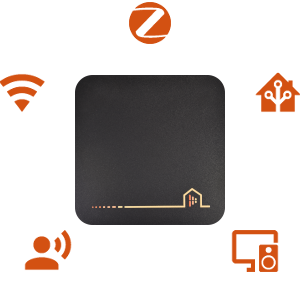
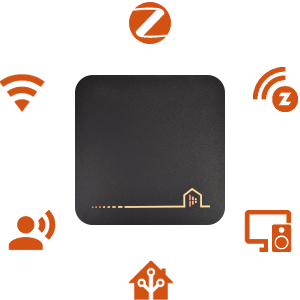
features

diff --git a/src/pages/index.js b/src/pages/index.js
@@ -3,7 +3,6 @@ import classnames from 'classnames';
 import Layout from '@theme/Layout';
 import Link from '@docusaurus/Link';
 import useDocusaurusContext from '@docusaurus/useDocusaurusContext';
-import useBaseUrl from '@docusaurus/useBaseUrl';
 import styles from './styles.module.css';
 import Image from '@theme/IdealImage';
 import Translate, {translate} from '@docusaurus/Translate';
@@ -11,6 +10,7 @@ import googlePlayLogo from '../../static/img/main/google-play-badge.png';
 import domDemoLogo from '../../static/img/main/Anzela-Demo.png';
 import Typewriter from 'typewriter-effect';
 import { Carousel } from '@trendyol-js/react-carousel';
+import ExecutionEnvironment from '@docusaurus/ExecutionEnvironment';
 
 
 export const Highlight = ({children, color, textColor}) => ( <span style={{
@@ -23,24 +23,11 @@ export const Highlight = ({children, color, textColor}) => ( <span style={{
   margin: '1em',
 }} className="AisHighlightFuture"> {children} </span> );
 
-function Feature({imageUrl, imageBttomUrl, title, description, addClass, addImgClass}) {
-  const imgUrl = useBaseUrl(imageUrl);
-  const imgBottomUrl = useBaseUrl(imageBttomUrl);
-  return (
-    <div className={classnames(addClass, styles.feature)}>
-      {imgUrl && (
-        <div className="text--center">
-          <img alt="AIS dom feature" className={classnames(addImgClass, styles.aisComiksImg)} src={imgUrl} alt={title} />
-        </div>
-      )}
-      <div className="aisFeatureTitle">{title}</div>
-      <div>{description}</div>
-    </div>
-  );
-}
 
 function getShowFeaturesNum() {
-  console.log(window.innerWidth);
+  if (!ExecutionEnvironment.canUseDOM) {
+    return 1;
+  }
   const w = window.innerWidth;
   if (w > 1800) {
     return 3.5;
@@ -83,7 +70,7 @@ function Home() {
                     AI-Speaker
                 </Translate>
               </h1>
-              <p className="hero__subtitle">
+              <div className="hero__subtitle">
                 <Translate
                     id="homepage.hero_subtitle"
                     description="The homepage hero subtitle">
@@ -92,13 +79,32 @@ function Home() {
                 <Typewriter
                   options={{
                     strings: [
-                      'Lokalnie.', 'Niezawodnie.', 'Szybko.', 'Prywatnie.', 'Prosto.'
+                        translate({
+                          message: 'Lokalnie.',
+                          description: 'The typewriter item Lokalnie',
+                        }), 
+                        translate({
+                          message: 'Niezawodnie.',
+                          description: 'The typewriter item Niezawodnie',
+                        }), 
+                        translate({
+                          message: 'Szybko.',
+                          description: 'The typewriter item Szybko',
+                        }), 
+                        translate({
+                          message: 'Prywatnie.',
+                          description: 'The typewriter item Prywatnie',
+                        }), 
+                        translate({
+                          message: 'Prosto.',
+                          description: 'The typewriter item Prosto',
+                        })
                   ],
                     autoStart: true,
                     loop: true,
                   }}
                 />
-              </p>
+              </div>
               <a href="docs/ais_bramka_index">
                 <img alt="AIS dom logo" className={styles.heroLogo} src="img/logo-responsive.svg" />
               </a>
@@ -173,7 +179,7 @@ function Home() {
         <Translate
           id="homepage.ais_features.wifi.title"
           description="Wifi number devices title"
-          values={{devices: <span className="strongInfo">1990</span>}}>
+          values={{devices: <span className="strongInfo">1990 🌐 </span>}}>
           {'Ponad {devices} urządzeń WiFi'}
           </Translate>
           <br/>
@@ -193,7 +199,7 @@ function Home() {
           </Translate>
       </Highlight>
 
-      <Highlight color="#f9f8f6" textColor="black">  
+      <Highlight color="#ffffff" textColor="black">  
         <Translate
           id="homepage.ais_features.zigbee.title"
           description="Zigbee number devices title"
@@ -207,18 +213,18 @@ function Home() {
             values={{
               aisZigbee: <Link to="/docs/ais_zigbee_index">Zigbee2Mqtt</Link>,
               moreZigbeeDevices: <Link to="https://www.zigbee2mqtt.io/information/supported_devices.html">1490</Link>,
-              aizZigbeeConnbee2Img: <Link to="/docs/ais_zigbee_index" alt="AIS in Google Play"> <br /> <img alt="AIS dom feature" src="img/ais_con_bee2_mini.jpg" alt="zigbee adapter" /></Link>
+              aizZigbeeConnbee2Img: <Link to="/docs/ais_zigbee_index" alt="AIS in Google Play"> <br /><br /> <img alt="AIS dom feature" src="img/ais_con_bee2_mini.jpg" alt="zigbee adapter" /><br /></Link>
             }}
         >
-          {'Dzięki {aisZigbee} możesz łatwo dołączyć do bramki urządzenia Zigbee.  {aizZigbeeConnbee2Img} Ponad {moreZigbeeDevices} jest wspieranych przez oprogramowanie Zigbee2Mqtt które dostarczamy na bramce.'}
+          {'Dzięki {aisZigbee} możesz łatwo dołączyć do bramki urządzenia Zigbee.  {aizZigbeeConnbee2Img} Ponad {moreZigbeeDevices} urządzeń Zigbee od 220 producentów jest wspieranych przez oprogramowanie Zigbee2Mqtt które dostarczamy na bramce.'}
         </Translate>
     </Highlight>
 
-    <Highlight color="#16be48" textColor="#fff">We love Zwave 😍
+    <Highlight color="#16be48" textColor="#fff">
       <Translate
-          id="homepage.ais_features.voice.title"
+          id="homepage.ais_features.zwave.title"
           description="Voice commands in AIS title"
-          values={{aisTtsStt: <span className="strongInfo">Zwave</span>}}
+          values={{aisTtsStt: <span className="strongInfo">Zwave 🌊🌊🌊<br /></span>}}
           >
           {'{aisTtsStt}'}
       </Translate>
@@ -226,59 +232,43 @@ function Home() {
             id="homepage.ais_features.zwave.description"
             description="Zwave in AIS description"
             values={{
-              aisZwave: <Link to="/docs/ais_app_integration_zwave">ZwaveJs2Mqtt</Link>
+              aisZwave: <Link to="/docs/ais_app_integration_zwave">ZwaveJs2Mqtt</Link>,
+              aizZigbeeConnbee2Img: <Link to="/docs/ais_app_integration_zwave" alt="AIS in Google Play"> <br /><br /> <img alt="AIS dom feature" src="img/ais_zwave_mini.png" alt="zigbee adapter" /><br /></Link>
             }}
         >
-          {'Na bramce dostarczamy {aisZwave}, dzięki czemu możesz łatwo dodać do bramki obsługę swoich urządzeń Zwave i nimi sterować. Automatyzować ich działanie oraz sterować komendami głosowymi.'}
+          {'Na bramce dostarczamy {aisZwave}, dzięki czemu możesz dodać do bramki obsługę swoich urządzeń Zwave. {aizZigbeeConnbee2Img} Zwave zapewnia interoperacyjność wszystkich certyfikowanych produktów, dlatego każde certyfikowane urządzenie Z-Wave może działać z bramką.'}
         </Translate>
       </Highlight>
-    
-    <Highlight color="#d53f8c" textColor="#fff">
-      <Translate
-          id="homepage.ais_features.ha.title"
-          description="HA number of integrations title"
-          values={{devices: <span className="strongInfo">1800</span>}}>
-          {'Ponad {devices} Integracji Home Assistant'}
-      </Translate>
-      <Translate
-          id="homepage.ais_features.ha.description"
-          description="HA number of integrations description"
-          values={{
-            aisHomeAssistant: <Link to="https://www.home-assistant.io/">Home Assistant Core</Link>,
-            aisHomeAssistantIntegrations: <Link to="/docs/ais_app_player">AIS</Link>,
-            moreHomeAssistantMoreIntegrations: <Link to="https://www.home-assistant.io/integrations/#all">1800 HA Integrations</Link>
-          }}
-       >
-        {'Jedną ze składowych oprogramowania dostarczanego na bramce jest system automatyki domowej {aisHomeAssistant} z zainstalowanymi i gotowymi do użycia wbudowanymi integracjami {aisHomeAssistantIntegrations}, oraz z możliwością dodania ponad {moreHomeAssistantMoreIntegrations} które są wspierane i rozwijanych przez społeczność skupioną wokół projektu Home Assistant.'}
-      </Translate>
-    </Highlight>
 
-
-    <Highlight color="#d53f8c" textColor="#fff">We love Zwave 😍
+    <Highlight color="#febfb8" textColor="#000">
           <Translate
             id="homepage.ais_features.voice.title"
             description="Voice commands in AIS title"
-            values={{aisTtsStt: <span className="strongInfo">TTS/STT</span>}}
+            values={{aisTtsStt: <span className="strongInfo">📣 TTS/STT 🎙</span>}}
             >
             {'Komunikacja głosowa {aisTtsStt}'}
         </Translate>
+        <br/>
         <Translate
             id="homepage.ais_features.voice.description"
             description="Voice commands in AIS description"
             values={{
-              aisVoiceCommands: <Link to="/docs/ais_app_assistent_commands">AIS TTS/STT</Link>,
+              aisVoiceCommands: <Link to="/docs/ais_app_assistent_commands">AIS TTS/STT <br /></Link>,
               aisVoiceCommandsWeb: <Link to="/docs/ais_app_index">AIS Web App</Link>,
               aisVoiceCommandsMob: <Link to="/docs/ais_app_android_dom">AIS Mob App</Link>,
               aisVoiceCommandsRemote: <Link to="/docs/ais_remote_index">AIS Remote</Link>,
               aisVoiceCommandsApi: <Link to="/docs/ais_bramka_api_index">AIS API</Link>,
-              aisVoiceCommandsCreate: <Link to="/docs/ais_app_assistent_add_command">AIS Conversation</Link>
+              aisVoiceCommandsCreate: <Link to="/docs/ais_app_assistent_add_command">AIS Conversation</Link>,
+              aisTtsSttImg: <Link to="/docs/ais_app_ai_integration" alt="AIS Integrations"> <br /><br /> <img alt="AIS dom feature" src="img/ais_assistant_mini.jpg" alt="zigbee adapter" /><br /></Link>
             }}
         >
-          {'Na bramce dostarczamy {aisVoiceCommands} (zamianę tekstu na mowę i mowy na tekst) oraz wbudowane komendy, dzięki czemu możesz sterować dołączonymi urządzeniami za pomocą poleceń głosowych. Komendy można przesyłać z aplikacji działającej w przeglądarce {aisVoiceCommandsWeb}, aplikacji mobilnej {aisVoiceCommandsMob} lub pilota z mikrofonem {aisVoiceCommandsRemote}.  Można też wysyłać komendy z innych systemów/aplikacji za pomocą {aisVoiceCommandsApi}. Oraz definiować własne komendy {aisVoiceCommandsCreate}.'}
+          {'Na bramce dostarczamy zamianę tekstu na mowę i mowy na tekst {aisVoiceCommands} Możesz sterować urządzeniami za pomocą poleceń głosowych. {aisTtsSttImg} Komendy można przesyłać z przeglądarki {aisVoiceCommandsWeb}, aplikacji mobilnej {aisVoiceCommandsMob} lub pilota z mikrofonem {aisVoiceCommandsRemote}.  Można też wysyłać komendy z innych systemów/aplikacji za pomocą {aisVoiceCommandsApi}. Oraz definiować własne komendy {aisVoiceCommandsCreate}.'}
         </Translate>
       </Highlight>
       
-      <Highlight color="#f27a1a" textColor="#fff">Audio 😍
+      <Highlight color="black" textColor="#fff">
+        <span className="strongInfo">Audio 📻</span>
+        <br/>
         <Translate
             id="homepage.ais_features.audio.description"
             description="Audio in AIS description"
@@ -286,31 +276,62 @@ function Home() {
               aisAudioPlayer: <Link to="/docs/ais_app_player">AIS Audio Player</Link>,
               aisAudioYouTube: <Link to="/docs/ais_app_youtube_dl">YouTube</Link>,
               aisAudioSpotify: <Link to="/docs/ais_app_spotify">Spotify</Link>,
-              aisAudioPortal: <Link to="/docs/ais_app_add_media">Media</Link>
+              aisAudioPortal: <Link to="/docs/ais_app_add_media">Media</Link>,
+              aisAudioImg: <Link to="/docs/ais_app_ai_integration" alt="AIS Integrations"> <br /><br /> <img alt="AIS dom feature" src="img/ais_audio_mini.png" alt="zigbee adapter" /><br /></Link>
             }}
         >
-          {'Na bramce dostarczamy wbudowany odtwarzacz audio {aisAudioPlayer}, za pomocą którego możesz odtwarzać setki stacji radiowych, podcastów, darmowych audiobooków, darmowe treści z {aisAudioYouTube} oraz {aisAudioSpotify}. Istnieje też możliwość odtwarzania mediów udostępnionych przez innych użytkowników oraz definiowania własnych dodatkowych zasobów mediów i udostępniania ich dla społeczności {aisAudioPortal}.'}
+          {'Na bramce dostarczamy wbudowany odtwarzacz audio {aisAudioPlayer}, za pomocą którego możesz odtwarzać setki stacji radiowych, podcastów, darmowych audiobooków, darmowe treści z {aisAudioYouTube} oraz {aisAudioSpotify}. {aisAudioImg} Istnieje też możliwość odtwarzania mediów udostępnionych przez innych użytkowników oraz definiowania własnych dodatkowych zasobów mediów i udostępniania ich dla społeczności {aisAudioPortal}.'}
         </Translate>
        </Highlight>
 
-       <a target="_blank" href="https://github.com/sviete/">
-        <Highlight color="#303846" textColor="#fff">AIS ❤ OpenSource 
+       <Highlight color="#DC143C" textColor="#fff">
+      <Translate
+          id="homepage.ais_features.ha.title"
+          description="HA number of integrations title"
+          values={{devices: <span className="strongInfo">🏠 1800 Integracji<br /> </span>}}>
+          {'Ponad {devices}'}
+      </Translate>
+      <Translate
+          id="homepage.ais_features.ha.description"
+          description="HA number of integrations description"
+          values={{
+            aisHomeAssistant: <Link to="https://www.home-assistant.io/"> Home Assistant Core</Link>,
+            aisHomeAssistantIntegrations: <Link to="/docs/ais_app_player">AIS</Link>,
+            moreHomeAssistantMoreIntegrations: <Link to="https://www.home-assistant.io/integrations/#all">1800 HA Integrations</Link>,
+            aisHomeAssistantImg: <Link to="/docs/ais_app_ai_integration" alt="AIS Integrations"> <br /><br /> <img alt="AIS dom feature" src="img/ais_ha_mini.png" alt="zigbee adapter" /><br /></Link>
+          }}
+          
+       >
+        {'Jedną ze składowych oprogramowania dostarczanego na bramce jest system automatyki domowej AIS-dom. {aisHomeAssistantImg}  AIS-dom bazuje na {aisHomeAssistant} i posiada wiele wbudowanych integracji {aisHomeAssistantIntegrations} oraz z możliwość dodania ponad {moreHomeAssistantMoreIntegrations} które są wspierane i rozwijanych przez społeczność skupioną wokół projektu Home Assistant.'}
+      </Translate>
+    </Highlight>
+
+    <Highlight color="#303846" textColor="#fff"><span className="strongInfo">AIS ❤ OpenSource </span>
+          <br/>
           <Translate
-              id="homepage.ais_features.audio.description"
-              description="Audio in AIS description"
+              id="homepage.ais_features.open.description"
+              description="OpenSource in AIS description"
               values={{
-                aisAudioPlayer: <Link to="/docs/ais_app_player">AIS Audio Player</Link>,
-                aizOpenSourceImg: <Link to="/docs/ais_iot_s26" alt="AIS Wifi"> <br /> 
+                aisGithub: <Link to="https://github.com/sviete/">AIS Github</Link>,
+              }}
+          >
+            {' Kody zródłowe większości składowych naszego systemu są darmowe i ogólnie dostępne w repozytorium {aisGithub}.'}
+          </Translate>
+          <Translate
+              id="homepage.ais_features.open.description1"
+              description="OpenSource in AIS description2"
+              values={{
+                aisDevKit1: <Link to="/docs/ais_dev_kit_1_index">AIS DEV KIT1</Link>,
+                aizOpenSourceImg: <Link to="https://github.com/sviete/" alt="AIS Wifi"> <br /> 
                   <div className="CarouselImage">
                     <img alt="AIS dom feature" src="img/ais_opensource_mini.png" alt="zigbee adapter" />
                   </div>
                 </Link>
               }}
           >
-            {' {aizOpenSourceImg} .'}
+            {' {aizOpenSourceImg} Wierzymy w otwartość i wolność wyboru. Dzięki temu możesz sam wykonać głośnik wg naszego projektu {aisDevKit1}.'}
           </Translate>
         </Highlight>
-       </a>
     </Carousel>
 
     <div className={classnames(styles.announcement, styles.announcementDark, "announcementDark")}>

diff --git a/src/css/custom.css b/src/css/custom.css
@@ -320,7 +320,7 @@ span.AisHighlightFuture {
   border: 2px solid var(--ifm-color-primary);
   max-width: 100%;
   border-radius: 8px;
-  margin-bottom: 2em;
+  margin-bottom: 10px;
 }
 
 div.announcementDark {
